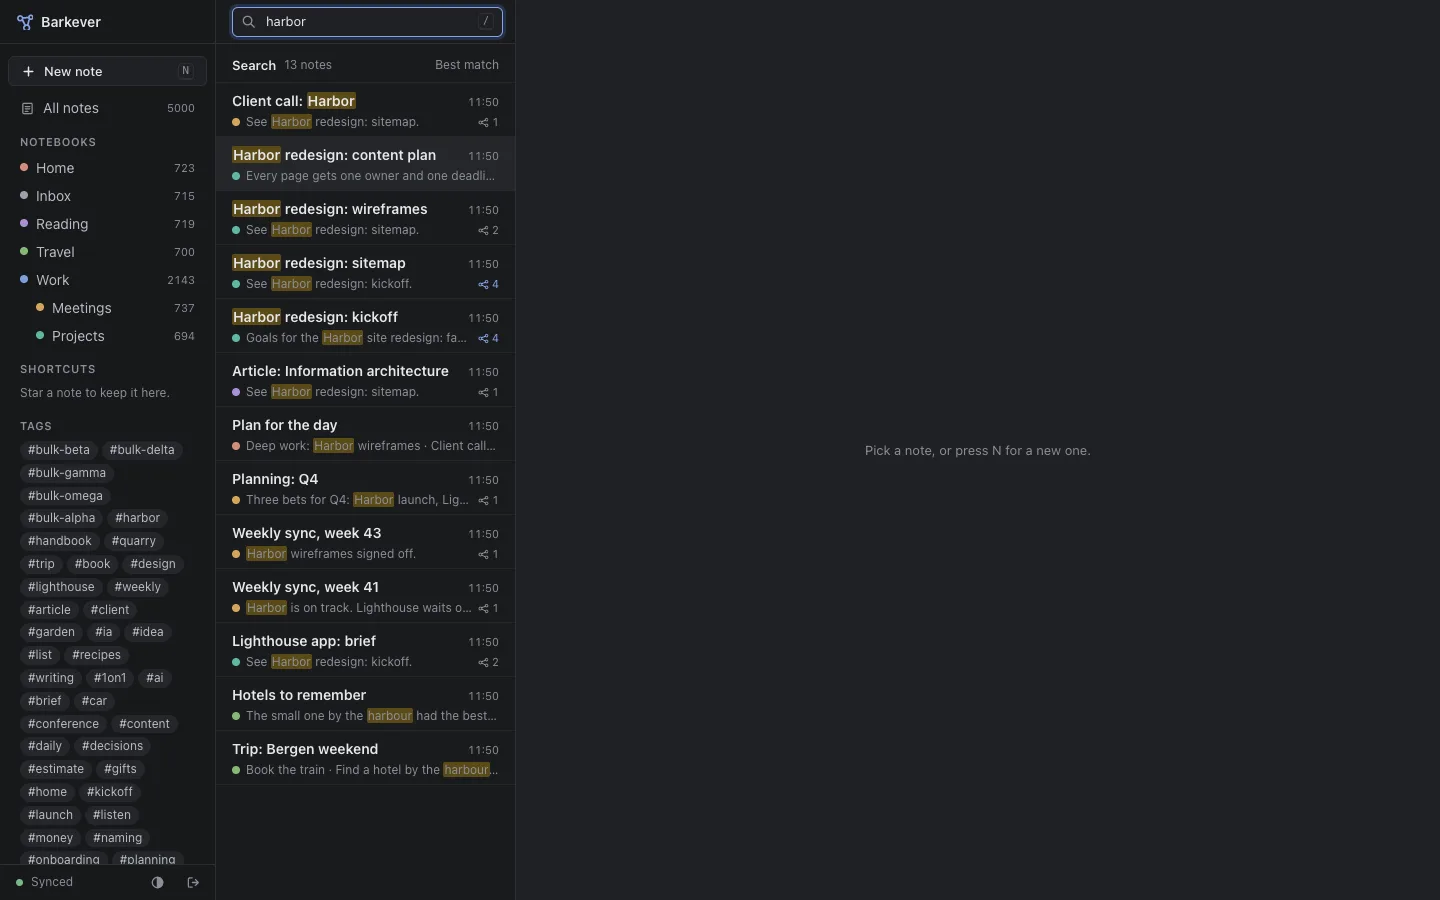
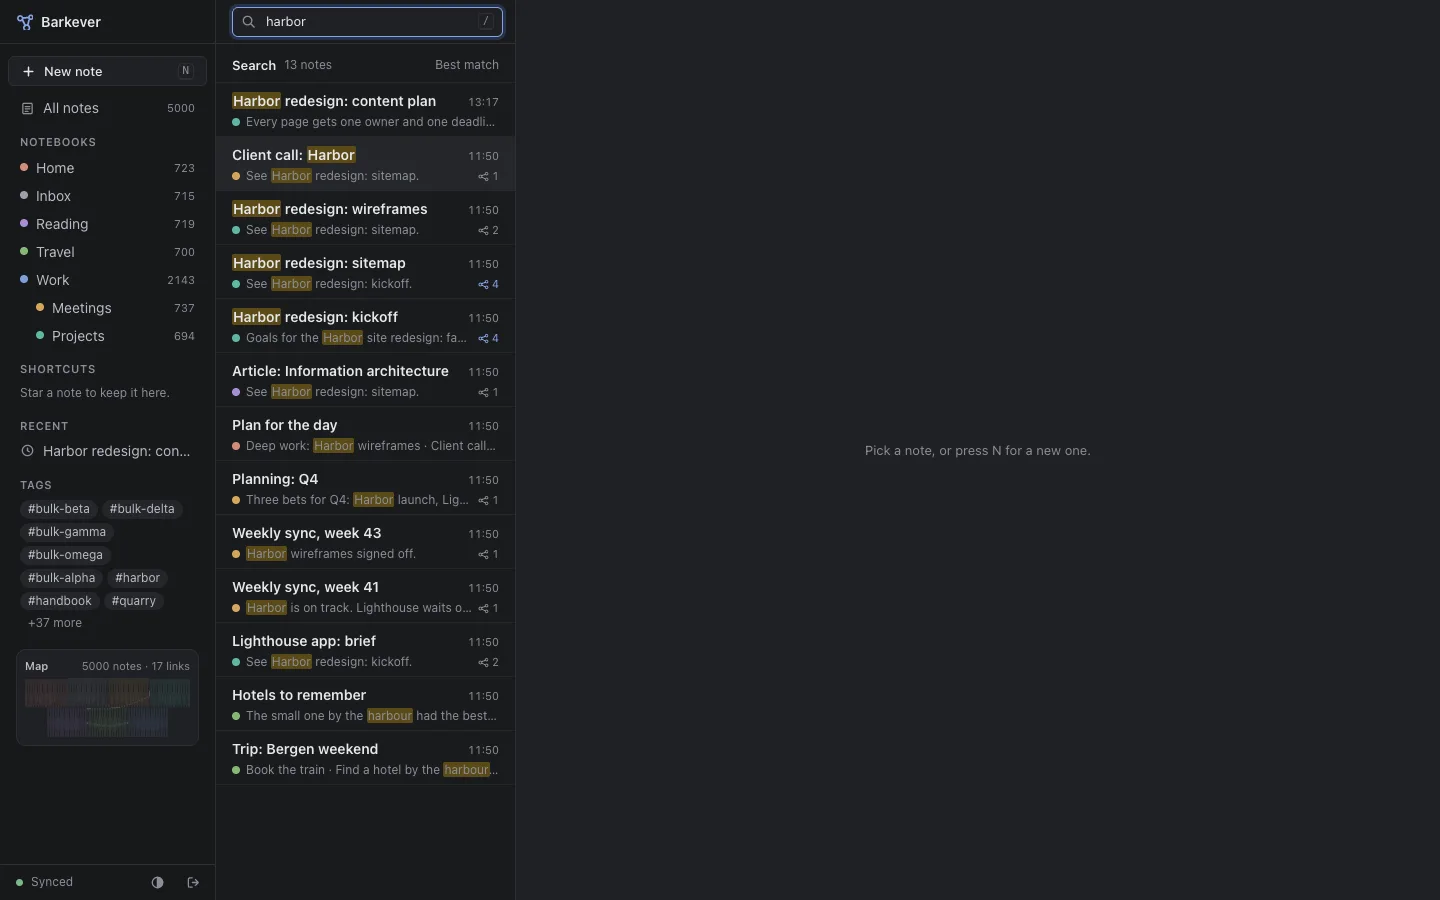
J03: the open note is pinned, not reached by growing the list
J03: the open note is pinned, not reached by growing the list; search with a note open p95 32-43 ms at 5,000 notes

- review 1 (HIGH): the list kept rendering up to the open note's rank (4,363 rows for "a"); now it renders the first 100 and pins the open note after them
- new e2e case: search with a note open at 5,000 notes, "a" "st" "e" included: p95 32 ms (rerun 43 ms), and at most 101 rows with the open note selected
- no note open, 22 queries now including "a" and "st": p95 21 ms (rerun 28 ms)

Changed region(s): [[0.0, 0.4667, 0.125, 0.9644], [0.1562, 0.0933, 0.3438, 0.2178]]

diff --git a/app/e2e/j03-find.spec.ts b/app/e2e/j03-find.spec.ts
@@ -13,7 +13,8 @@ test.beforeAll(async () => {
 test.afterAll(stop)
 
 const BUDGET_MS = 150
-const QUERIES = ['harbor', 'sitemap', 'sourdough', 'hydration', 'hyrdation', 'wierframes', 'garlik', 'carousel', 'lighthouse risk', 'quarry', 'bulk-alpha', 'brai', 'tarn', 'stone greys', 'xyzzy', 'calm navigation', 'weekly', 'dentist', 'packing', 'harbor sitemap']
+const OPEN_QUERIES = ['a', 'st', 'e', 'harbor', 'sitemap', 'wierframes', 'stone', 'tarn']
+const QUERIES = ['a', 'st', 'harbor', 'sitemap', 'sourdough', 'hydration', 'hyrdation', 'wierframes', 'garlik', 'carousel', 'lighthouse risk', 'quarry', 'bulk-alpha', 'brai', 'tarn', 'stone greys', 'xyzzy', 'calm navigation', 'weekly', 'dentist', 'packing', 'harbor sitemap']
 
 const search = (page: Page) => page.getByTestId('search')
 const rows = (page: Page) => page.getByTestId('note-row')
@@ -95,18 +96,33 @@ test('J03 find: words in the title or only in the body, typos too, ranked in the
   expect(errors).toEqual([])
 })
 
-test(`J03 speed: first results in under ${BUDGET_MS} ms at ${FIND_NOTES} notes, measured in the page`, async ({page}) => {
-  await synced(page)
+async function timed(page: Page, queries: string[], what: string) {
   await firstResults(page, 'warm')
   const ms: Record<string, number> = {}
-  for (const q of QUERIES) {
+  for (const q of queries) {
     await firstResults(page, '')
     ms[q] = Math.round(await firstResults(page, q))
   }
   const sorted = Object.values(ms).sort((a, b) => a - b)
   const at = (p: number) => sorted[Math.min(sorted.length - 1, Math.floor(p * sorted.length))]
-  const line = `search first results at ${FIND_NOTES} notes: p50 ${at(0.5)} ms, p95 ${at(0.95)} ms, max ${sorted.at(-1)} ms (${QUERIES.length} queries) · ${Object.entries(ms).map(([q, t]) => `${q} ${t}`).join(' · ')}`
+  const line = `search first results at ${FIND_NOTES} notes, ${what}: p50 ${at(0.5)} ms, p95 ${at(0.95)} ms, max ${sorted.at(-1)} ms (${queries.length} queries) · ${Object.entries(ms).map(([q, t]) => `${q} ${t}`).join(' · ')}`
   console.log(line)
   test.info().annotations.push({type: 'J03 timing', description: line})
-  expect(at(0.95)).toBeLessThan(BUDGET_MS)
+  return at(0.95)
+}
+
+test(`J03 speed: first results in under ${BUDGET_MS} ms at ${FIND_NOTES} notes, measured in the page`, async ({page}) => {
+  await synced(page)
+  expect(await timed(page, QUERIES, 'no note open')).toBeLessThan(BUDGET_MS)
+})
+
+test(`J03 speed with a note open: the list stays a window, the open note stays pinned, first results in under ${BUDGET_MS} ms`, async ({page}) => {
+  await synced(page)
+  await page.goto(`${ORIGIN}/?n=fx-note-03`)
+  await expect(page.getByTestId('title')).toHaveValue('Harbor redesign: content plan')
+  expect(await timed(page, OPEN_QUERIES, 'note open')).toBeLessThan(BUDGET_MS)
+  await firstResults(page, 'a')
+  const open = page.locator('[data-testid="note-row"][data-note-id="fx-note-03"]')
+  await expect(open).toHaveAttribute('aria-selected', 'true')
+  expect(await rows(page).count()).toBeLessThanOrEqual(101)
 })

diff --git a/app/src/ui/NoteList.tsx b/app/src/ui/NoteList.tsx
@@ -69,7 +69,7 @@ export const NoteList = forwardRef<ListHandle, Props>(function NoteList({w, s, f
   useEffect(() => setQ(s.q ?? ''), [s.q])
   const searching = !!s.q?.trim()
   const scopeDot = !searching && s.nb
-  const shown = useShown(notes, s, rowsRef)
+  const {shown, more} = useShown(notes, s, rowsRef)
   const re = useMemo(() => marker(words), [words])
   const setQuery = (v: string) => {
     setQ(v)
@@ -114,7 +114,7 @@ export const NoteList = forwardRef<ListHandle, Props>(function NoteList({w, s, f
       </div>
       <div className="rows" role="listbox" aria-label="Notes" ref={rowsRef} onKeyDown={onKeys}>
         {notes.length === 0 && <div className="empty">{searching ? `Nothing matches “${s.q}”.` : 'No notes here yet. Press N to write one.'}</div>}
-        {notes.slice(0, shown).map((n) => {
+        {shown.map((n) => {
           const d = w.links.degree(n.id)
           const nb = w.shelf.byId.get(n.notebook ?? '')
           return (
@@ -139,23 +139,25 @@ export const NoteList = forwardRef<ListHandle, Props>(function NoteList({w, s, f
             </Link>
           )
         })}
-        {shown < notes.length && <div className="more" data-more />}
+        {more && <div className="more" data-more />}
       </div>
     </section>
   )
 })
 
-function useShown(notes: Note[], s: Search, rows: RefObject<HTMLDivElement | null>): number {
+function useShown(notes: Note[], s: Search, rows: RefObject<HTMLDivElement | null>): {shown: Note[]; more: boolean} {
   const [pages, setPages] = useState(1)
   useEffect(() => setPages(1), [s.q, s.nb, s.tag])
-  const open = s.n ? notes.findIndex((n) => n.id === s.n) + 1 : 0
-  const shown = Math.max(pages * PAGE, open)
+  const count = pages * PAGE
+  const more = count < notes.length
   useEffect(() => {
-    const more = rows.current?.querySelector('[data-more]')
-    if (!more) return
+    const end = rows.current?.querySelector('[data-more]')
+    if (!end) return
     const seen = new IntersectionObserver((e) => e.some((x) => x.isIntersecting) && setPages((p) => p + 1), {root: rows.current, rootMargin: '600px'})
-    seen.observe(more)
+    seen.observe(end)
     return () => seen.disconnect()
-  }, [shown, notes])
-  return shown
+  }, [count, notes])
+  const first = notes.slice(0, count)
+  const open = s.n && !first.some((n) => n.id === s.n) ? notes.find((n) => n.id === s.n) : undefined
+  return {shown: open ? [...first, open] : first, more}
 }
